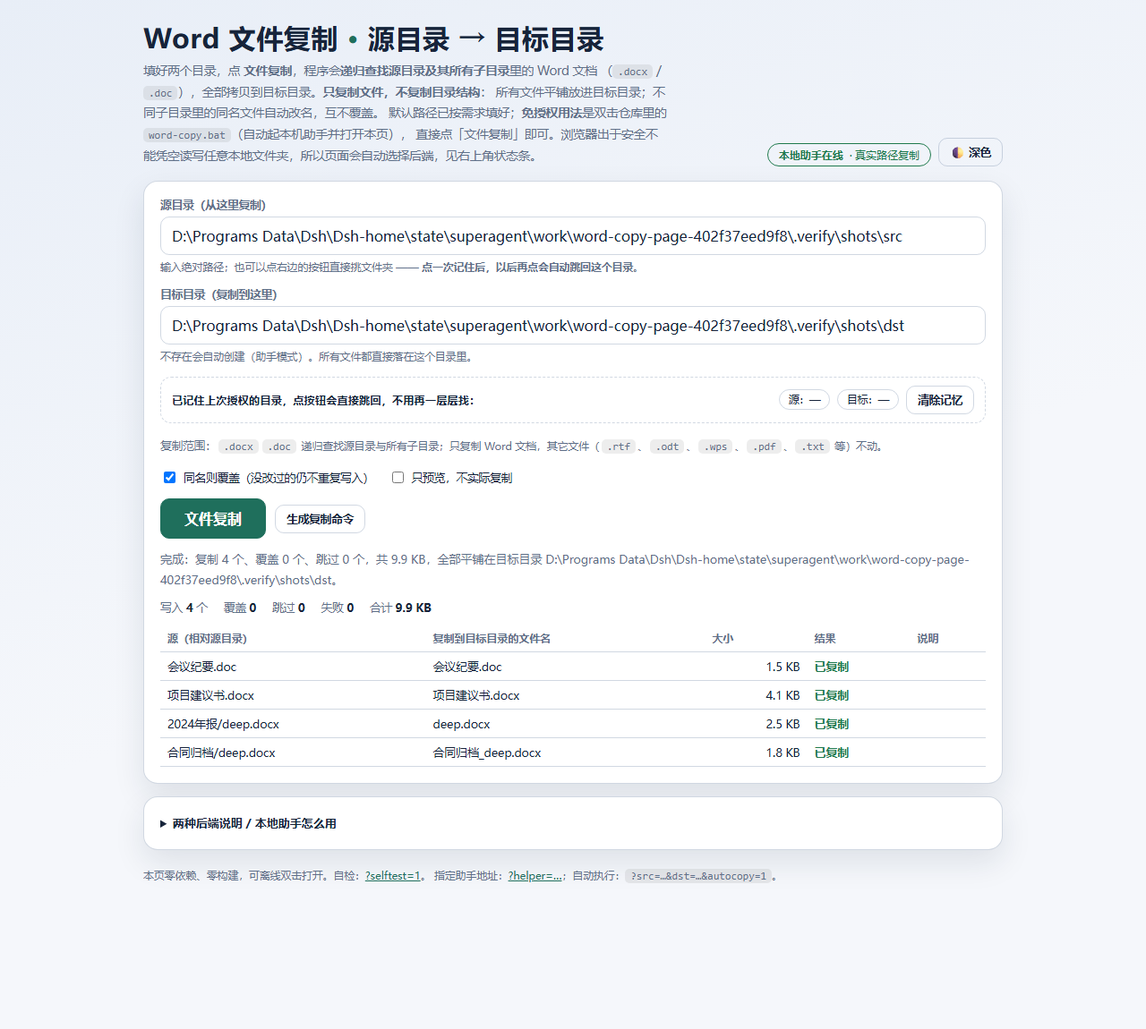
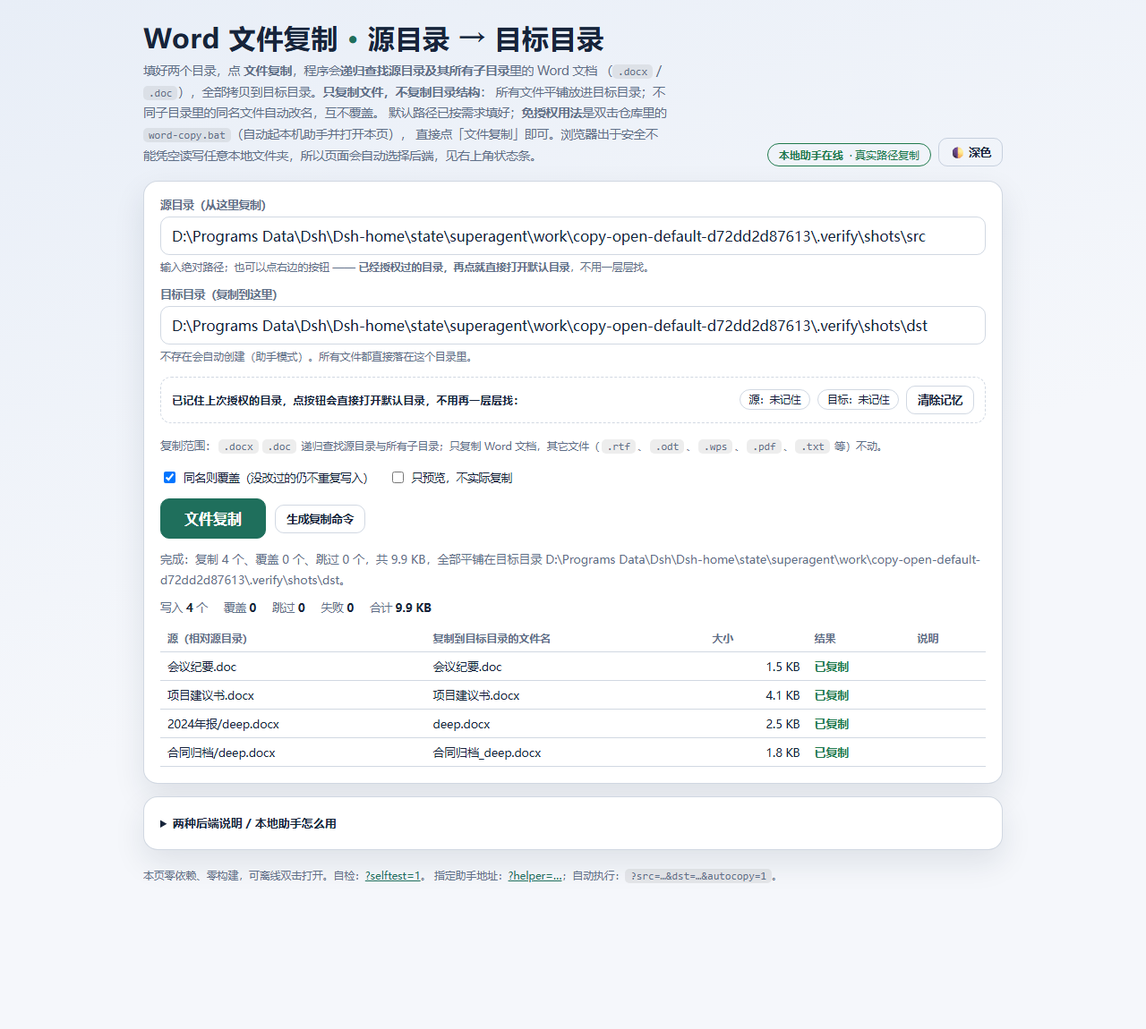
feat(word-copy): 点授权按钮直接打开默认目录
「点击授权目录，直接打开默认目录」—— 之前点「授权源目录 / 授权目标目录」：
已记住时把输入框写成「📁 已跳回：workspaces」，完整默认路径反而没了；
从没授权过时直接弹系统选择器，要一层层翻到默认目录。现在：

- 已记住且仍可用：直接打开默认目录（输入框保留完整路径，如
  D:\Programs Data\DeepTutor\data\user\workspaces → E:\word），不再弹选择器；
  记住的目录只是它的上层时按路径进到那一层，记的不是默认目录时按老规矩跳回它本身
- 输入框里已经是绝对路径就尊重它（?src= / ?dst= 覆盖的默认值同样生效）
- 从没授权过时不直接丢进系统选择框：先说明默认目录是哪两个 + 双击 word-copy.bat
  一步免授权，并把「仍然手动选择源/目标文件夹」留在提示里，点了才弹选择器
- 按住 Shift 或点记忆条 = 主动换目录，仍直接弹选择器并从上次那个目录开始
  （forcePick 用完即清，下一次普通点击回到「直接打开」）
- ?demoAuth=1 改为展示「已直接打开两个默认目录」，新增 ?demoNotice=1 展示未授权说明态

验证：页内自检 85/85（新增直达/回落/说明态/手选入口/主动换目录 8 项异步断言）；
tools\word-copy-check.ps1 56/56（新增两组展示态与文案断言）。
顺带修两处本机跑批问题：无头 Edge 子进程仍握着 dump-dom 临时文件时读到
「being used by another process」会中断检查（改为重试）；改前基线仍按
「main 上没有这个页面」抓 index.html，现在 main 已有 word-copy.html，
基线直接取 origin/main:word-copy.html，并补抓改前的 ?demoAuth=1 画面做同场景对比。

diff --git a/word-copy.html b/word-copy.html
@@ -117,9 +117,9 @@ a{color:var(--accent)}
       <div class="field">
         <label for="src">源目录（从这里复制）</label>
         <input type="text" id="src" value="D:\Programs Data\DeepTutor\data\user\workspaces" placeholder="D:\资料\合同" spellcheck="false" autocomplete="off">
-        <div class="hint">输入绝对路径；也可以点右边的按钮直接挑文件夹 —— <b>点一次记住后，以后再点会自动跳回这个目录</b>。</div>
+        <div class="hint">输入绝对路径；也可以点右边的按钮 —— <b>已经授权过的目录，再点就直接打开默认目录</b>，不用一层层找。</div>
       </div>
-      <button class="ghost" id="pickSrc" title="授权源目录（记住后下次自动跳回）">📁 授权源目录</button>
+      <button class="ghost" id="pickSrc" title="授权源目录：点一下直接打开默认目录">📁 授权源目录</button>
     </div>
     <div class="row" style="margin-top:12px">
       <div class="field">
@@ -127,10 +127,10 @@ a{color:var(--accent)}
         <input type="text" id="dst" value="E:\word" placeholder="E:\备份\合同" spellcheck="false" autocomplete="off">
         <div class="hint">不存在会自动创建（助手模式）。所有文件都直接落在这个目录里。</div>
       </div>
-      <button class="ghost" id="pickDst" title="授权目标目录（记住后下次自动跳回）">📁 授权目标目录</button>
+      <button class="ghost" id="pickDst" title="授权目标目录：点一下直接打开默认目录">📁 授权目标目录</button>
     </div>
     <div class="remembered" id="remembered" hidden>
-      <span class="rt">已记住上次授权的目录，点按钮会直接跳回，不用再一层层找：</span>
+      <span class="rt">已记住上次授权的目录，点按钮会直接打开默认目录，不用再一层层找：</span>
       <span class="rcol"><span class="chip" id="memSrc">源：—</span><span class="chip" id="memDst">目标：—</span>
       <button class="ghost" id="memClear">清除记忆</button></span>
     </div>
@@ -159,6 +159,9 @@ a{color:var(--accent)}
             <button class="ghost" id="hintCopy">复制</button></div></li>
         <li>助手起来后点 <button class="ghost" id="hintRetry">重新探测助手</button>，或直接刷新本页。</li>
       </ol>
+      <div class="actions" style="margin-top:10px">
+        <button class="ghost" id="hintManual" hidden>仍然手动选择文件夹</button>
+      </div>
       <div class="hint">助手只监听 127.0.0.1，只做「递归列出 Word 文件」和「平铺复制到目标目录」两件事，不删除任何东西，关掉窗口即停止。</div>
     </div>
 
@@ -186,8 +189,10 @@ a{color:var(--accent)}
     <p><b>文件没有修改就不重复写入</b>：目标里已有同名且内容没再改过的文件直接跳过，也不会碰它的写入时间。
       助手模式按「大小相同 + 修改时间相同」判定；浏览器授权模式写入后目标时间会变成「刚才」，
       所以改用「大小相同 + 目标不比源旧」。取消「同名则覆盖」后同名文件一律跳过。</p>
-    <p><b>点授权按钮会自动跳到对应目录</b>：第一次授权后目录会被记住（存在浏览器 IndexedDB），
-      以后再点同一个按钮直接跳回上次那个目录，不再弹选择器；输入框里填的是它下面的子目录时还会自动进到那一层。
+    <p><b>点授权按钮直接打开默认目录</b>：已经授权过的目录会被记住（存在浏览器 IndexedDB 里），
+      以后再点同一个按钮<b>直接打开默认目录</b>（就是输入框里那个路径，或它下面的子目录），不再弹选择器。
+      还没授权过时，浏览器不允许网页按路径直接打开本地文件夹 —— 页面会先把两个默认目录和「一步免授权」的做法摆出来
+      （双击 <code>word-copy.bat</code>），手动选择入口也留在提示里，不让你被直接丢进系统选择框。
       记住的目录被移动或权限被收回，会自动退回系统选择器重选一次。想主动换目录：按住 <kbd>Shift</kbd> 再点按钮，
       或点记忆条上的「清除记忆」。</p>
   </details>
@@ -354,6 +359,7 @@ var state = {
   srcHandle: null, dstHandle: null,
   remembered: { src: null, dst: null },   /* 上次授权过的目录句柄（存 IndexedDB） */
   forcePick: { src: false, dst: false },  /* 按住 Shift 点按钮 = 换别的目录 */
+  pendingPick: 'src',                     /* 提示里「仍然手动选择文件夹」针对哪个目录 */
   busy: false
 };
 
@@ -414,7 +420,7 @@ function helperPing(){
     .catch(function(){ return false; });
 }
 function detectBackend(tries){
-  if (Q.get('demoAuth') === '1') return;      /* 演示模式固定停在授权档，不做探测 */
+  if (Q.get('demoAuth') === '1' || Q.get('demoNotice') === '1') return;   /* 演示态：固定停在浏览器授权档，不做探测 */
   helperPing().then(function(on){
     if (!on && tries > 1) return setTimeout(function(){ detectBackend(tries - 1); }, 400);
     state.mode = on ? 'helper' : (window.showDirectoryPicker ? 'browser' : 'none');
@@ -523,24 +529,65 @@ function descendTo(rootHandle, wanted){
 function pickDir(which){
   if (!window.showDirectoryPicker){ setStatus('当前浏览器不支持目录授权（需要 Chrome / Edge 等）。', true); return; }
   var mode = which === 'dst' ? 'readwrite' : 'read';
+  var want = targetDirFor(which);
   var remembered = state.remembered[which];
   if (remembered && remembered.__demo) remembered = null;   /* 演示句柄不算真授权 */
-  /* 已经记住并仍被允许访问：直接跳回那个目录，不再弹选择器 */
-  if (remembered && !state.forcePick[which]){
+  var force = state.forcePick[which];
+  state.forcePick[which] = false;                            /* 用完即清，下一次普通点击仍是「直接打开」 */
+  /* 按住 Shift / 点记忆条 = 主动换目录：直接弹选择器，并从上次那个目录开始 */
+  if (remembered && force) return openPicker(which, mode, remembered);
+  /* 已经记住并仍被允许访问：直接打开默认目录，不再弹选择器 */
+  if (remembered){
     return askPermission(remembered, mode).then(function(p){
       if (p !== 'granted') throw new Error('permission-denied');
-      state[which + 'Handle'] = remembered;
-      return descendTo(remembered, $(which).value).then(function(h){
+      return descendTo(remembered, want).then(function(h){
         state[which + 'Handle'] = h;
-        $(which).value = '📁 已跳回：' + (h.name || '上次授权的文件夹') + (h === remembered ? '' : '（按输入路径进到子目录）');
-        setStatus('已自动跳回上次授权的' + (which === 'src' ? '源' : '目标') + '目录：' + (h.name || '') + '，现在可以点「文件复制」。想换别的目录，按住 Shift 再点这个按钮。');
+        if (handleReachesDefault(remembered, want)){
+          /* 记住的目录就是默认目录（或它的上层）：直接把默认目录打开、路径留在输入框里 */
+          $(which).value = want;
+          setStatus('已直接打开' + fieldLabel(which) + '目录：' + want + '（默认目录，已记住，不用再选），直接点「文件复制」即可。' +
+            '想换别的目录，按住 Shift 再点这个按钮。');
+        } else {
+          $(which).value = '📁 已跳回：' + (h.name || '上次授权的文件夹');
+          setStatus('已自动跳回上次授权的' + fieldLabel(which) + '目录：' + (h.name || '') +
+            '（记的不是默认目录，按输入路径进不去），现在可以点「文件复制」。想换别的目录，按住 Shift 再点这个按钮。');
+        }
       });
     }).catch(function(){
       setStatus('上次记的目录已经不可用（被移动或权限被收回），重新选一个。');
       return openPicker(which, mode, null);
     });
   }
-  return openPicker(which, mode, remembered);
+  /* 还没授权过：浏览器不能按路径直接打开本地文件夹（安全限制），
+     先把默认目录与「一步免授权」的做法说清楚，手动选择入口留在提示里。 */
+  showDefaultNotice(which, want);
+  return Promise.resolve();
+}
+/* 默认目录：?src= / ?dst= 覆盖，否则用页面内置的默认值 */
+function defaultDirFor(which){ return Q.get(which) || (which === 'src' ? DEFAULT_SRC : DEFAULT_DST); }
+/* 点按钮要打开的目录：输入框里已经是绝对路径就尊重它（只去掉「📁 …」那种占位文字），否则用默认目录 */
+function targetDirFor(which){
+  var v = String($(which).value || '').trim();
+  if (v && v.charAt(0) !== '📁' && isAbsolute(v)) return v;
+  return defaultDirFor(which);
+}
+function fieldLabel(which){ return which === 'src' ? '源' : '目标'; }
+/* 授权过的目录是不是默认目录本身、或者它的上层：名字能在默认路径里接上（与 descendTo 同一套接法） */
+function handleReachesDefault(handle, want){
+  var name = handle && handle.name;
+  if (!name) return false;
+  return normPath(want).split('/').some(function(seg){ return seg.toLowerCase() === String(name).toLowerCase(); });
+}
+/* 没授权过时点授权按钮：不直接弹系统选择框，先说明默认目录与免授权一步做法，手选入口放在提示里 */
+function showDefaultNotice(which, want){
+  state.pendingPick = which;
+  showHelperHint('浏览器不能直接按路径打开本地文件夹；先启动本机助手就能直接用默认目录：');
+  $('hintManual').hidden = false;
+  $('hintManual').textContent = '仍然手动选择' + fieldLabel(which) + '文件夹';
+  setStatus('默认' + fieldLabel(which) + '目录：' + want + '。浏览器不允许网页按路径打开文件夹；' +
+    '双击上面的 word-copy.bat（或先启动本机助手）后，再点这个按钮就会直接用默认目录 —— 不授权、不弹选择框。' +
+    '想现在就手选，点提示里的「仍然手动选择' + fieldLabel(which) + '文件夹」。');
+  try { $('helperHint').scrollIntoView({ block: 'nearest' }); } catch (e) {}
 }
 function openPicker(which, mode, startHandle){
   var opt = { id: 'wc-' + which, mode: mode };
@@ -548,8 +595,10 @@ function openPicker(which, mode, startHandle){
   return window.showDirectoryPicker(opt).then(function(h){
     state[which + 'Handle'] = h;
     return remember(which, h).then(function(){
+      $('hintManual').hidden = true;
       $(which).value = '📁 已授权：' + (h.name || '所选文件夹');
-      setStatus('已授权' + (which === 'src' ? '源' : '目标') + '目录：' + (h.name || '') + '，已记住，下次点这个按钮会自动跳回来。');
+      setStatus('已授权' + (which === 'src' ? '源' : '目标') + '目录：' + (h.name || '') +
+        '，已记住，下次点这个按钮会直接打开它（默认目录就是它时，输入框会保留完整路径）。');
     });
   }).catch(function(e){
     if (e && e.name !== 'AbortError') setStatus('授权失败：' + e.message, true);
@@ -722,6 +771,13 @@ $('memClear').addEventListener('click', function(){
 });
 $('memSrc').addEventListener('click', function(){ state.forcePick.src = true; pickDir('src'); });
 $('memDst').addEventListener('click', function(){ state.forcePick.dst = true; pickDir('dst'); });
+/* 没授权过时点授权按钮只给说明，手选入口在这里 */
+$('hintManual').addEventListener('click', function(){
+  var which = state.pendingPick || 'src';
+  var remembered = state.remembered[which];
+  if (remembered && remembered.__demo) remembered = null;
+  return openPicker(which, which === 'dst' ? 'readwrite' : 'read', remembered);
+});
 $('hintRetry').addEventListener('click', retryDetect);
 $('hintCopy').addEventListener('click', function(){
   var txt = 'powershell -ExecutionPolicy Bypass -File "' + batPath().replace(/word-copy\.bat$/, 'tools\\word-copy-server.ps1') + '"';
@@ -872,10 +928,19 @@ function selftest(){
     { overwrite: true, skipSame: true }).reason.indexOf('不重复写入') >= 0);
   T('记住目录控件齐备', ['remembered', 'memSrc', 'memDst', 'memClear'].every(function(id){ return !!$(id); }));
   T('覆盖选项写明不重复写入', document.querySelector('#overwrite').parentNode.textContent.indexOf('不重复写入') >= 0);
-  T('授权按钮提示写明自动跳回', $('pickSrc').title.indexOf('自动跳回') >= 0 && $('pickDst').title.indexOf('自动跳回') >= 0);
+  T('授权按钮提示写明直接打开默认目录', $('pickSrc').title.indexOf('直接打开默认目录') >= 0 && $('pickDst').title.indexOf('直接打开默认目录') >= 0);
+  T('默认目录取值正确', defaultDirFor('src') === DEFAULT_SRC && defaultDirFor('dst') === DEFAULT_DST);
+  var keepSrc = $('src').value, keepDst = $('dst').value;
+  $('src').value = DEFAULT_SRC; $('dst').value = '📁 已授权：word';
+  T('点按钮打开的目录：输入框已是绝对路径就尊重它', targetDirFor('src') === DEFAULT_SRC);
+  T('点按钮打开的目录：占位文字/相对路径时回落到默认目录', targetDirFor('dst') === DEFAULT_DST);
+  $('src').value = keepSrc; $('dst').value = keepDst;
+  T('默认目录判定：句柄名字能在路径里接上才算直达', handleReachesDefault({ name: 'workspaces' }, DEFAULT_SRC) === true &&
+    handleReachesDefault({ name: 'word' }, DEFAULT_DST) === true && handleReachesDefault({ name: '合同' }, DEFAULT_DST) === false);
+  T('手动选择按钮齐备且初始隐藏', !!$('hintManual') && $('hintManual').hidden === true);
   T('记忆区初始隐藏', $('remembered').hidden === true);
 
-  /* 异步断言：descendTo 与「点授权按钮自动跳到对应目录」（用假句柄，无头环境弹不出真选择器） */
+  /* 异步断言：descendTo 与「点授权按钮直接打开默认目录」（用假句柄，无头环境弹不出真选择器） */
   var out2 = [];
   function Ta(name, promise){
     return promise.then(function(v){ out2.push({ name: name, pass: !!v }); },
@@ -909,21 +974,61 @@ function selftest(){
   .then(function(){
     state.remembered.dst = granted; state.forcePick.dst = false; $('dst').value = DEFAULT_DST;
     pickedCalled = 0;
-    return Ta('已记住且仍可用时点按钮不再弹选择器', pickDir('dst').then(function(){ return pickedCalled === 0; }));
+    return Ta('记住的就是默认目录时点按钮不弹选择器', pickDir('dst').then(function(){ return pickedCalled === 0; }));
   })
   .then(function(){
-    return Ta('自动跳回上次目录并写进输入框', Promise.resolve().then(function(){
-      return $('dst').value.indexOf('已跳回') >= 0 && state.dstHandle === granted;
+    return Ta('直接打开默认目录：输入框保留默认路径', Promise.resolve().then(function(){
+      return $('dst').value === DEFAULT_DST && state.dstHandle === granted;
     }));
   })
   .then(function(){
-    return Ta('跳回后状态条提示可直接点复制', Promise.resolve().then(function(){
-      return $('status').textContent.indexOf('自动跳回') >= 0;
+    return Ta('直接打开默认目录：状态条写明已打开', Promise.resolve().then(function(){
+      return $('status').textContent.indexOf('已直接打开') >= 0 && $('status').textContent.indexOf(DEFAULT_DST) >= 0;
     }));
   })
   .then(function(){
     return Ta('记忆区在记住后显示', Promise.resolve().then(function(){
       renderRemembered(); return $('remembered').hidden === false;
+    }));
+  })
+  .then(function(){
+    var other = { name: '合同', kind: 'dir', queryPermission: function(){ return Promise.resolve('granted'); } };
+    state.remembered.dst = other; state.forcePick.dst = false; $('dst').value = DEFAULT_DST;
+    pickedCalled = 0;
+    return Ta('记住的目录不是默认目录时仍按老规矩跳回', pickDir('dst').then(function(){ return pickedCalled === 0; }));
+  })
+  .then(function(){
+    return Ta('跳回时写明跳回的是哪个目录', Promise.resolve().then(function(){
+      return $('dst').value.indexOf('已跳回') >= 0 && $('status').textContent.indexOf('自动跳回') >= 0 &&
+        $('status').textContent.indexOf('不是默认目录') >= 0;
+    }));
+  })
+  .then(function(){
+    state.remembered.dst = null; state.dstHandle = null; state.forcePick.src = false;
+    state.remembered.src = null; state.srcHandle = null; $('src').value = DEFAULT_SRC;
+    hideHelperHint(); $('hintManual').hidden = true; pickedCalled = 0;
+    return Ta('没授权过时点授权按钮不直接弹选择框', pickDir('src').then(function(){ return pickedCalled === 0; }));
+  })
+  .then(function(){
+    return Ta('没授权过时说明默认目录与免授权一步做法', Promise.resolve().then(function(){
+      var s = $('status').textContent;
+      return s.indexOf(DEFAULT_SRC) >= 0 && s.indexOf('word-copy.bat') >= 0 && state.pendingPick === 'src';
+    }));
+  })
+  .then(function(){
+    return Ta('说明里给出手动选择入口', Promise.resolve().then(function(){
+      return $('hintManual').hidden === false && $('hintManual').textContent.indexOf('源') >= 0;
+    }));
+  })
+  .then(function(){
+    return Ta('点手动选择入口才弹系统选择框', Promise.resolve().then(function(){
+      pickedCalled = 0; $('hintManual').click(); return pickedCalled === 1;
+    }));
+  })
+  .then(function(){
+    return Ta('主动换目录（Shift / 点记忆条）时直接弹选择器', Promise.resolve().then(function(){
+      state.remembered.dst = granted; state.dstHandle = null; state.forcePick.dst = true; pickedCalled = 0;
+      pickDir('dst'); return pickedCalled === 1 && state.forcePick.dst === false;
     }));
   })
   .then(function(){
@@ -936,6 +1041,7 @@ function selftest(){
   .then(function(){
     state.srcHandle = null; state.remembered.src = null; state.remembered.dst = null;
     window.showDirectoryPicker = hadPicker;
+    hideHelperHint(); $('hintManual').hidden = true;
     renderRemembered();
     return Promise.all(out2);
   })
@@ -994,9 +1100,14 @@ window.wordcopy = {
     var mk = function(n){ return { name: n, kind: 'dir', __demo: true, queryPermission: function(){ return Promise.resolve('granted'); } }; };
     state.remembered.src = mk('workspaces'); state.remembered.dst = mk('word');
     renderRemembered();
-    $('src').value = '📁 已跳回：workspaces';
-    $('dst').value = '📁 已跳回：word';
-    setStatus('已自动跳回上次授权的源目录与目标目录，直接点「文件复制」即可，不用再选文件夹。（演示状态 ?demoAuth=1，非真实授权）');
+    $('src').value = DEFAULT_SRC;
+    $('dst').value = DEFAULT_DST;
+    setStatus('已直接打开两个默认目录（' + DEFAULT_SRC + ' → ' + DEFAULT_DST + '），不用再选文件夹，直接点「文件复制」即可。（演示状态 ?demoAuth=1，非真实授权）');
+  }, 300);
+  /* ?demoNotice=1：展示「还没授权过、点授权按钮」时的说明态（不探测助手、不弹选择框、不写入） */
+  if (Q.get('demoNotice') === '1') setTimeout(function(){
+    state.mode = 'browser'; setBackend();
+    showDefaultNotice('src', defaultDirFor('src'));
   }, 300);
   if (Q.get('cmd') === '1') setTimeout(function(){ $('cmdBtn').click(); }, 300);
   if (Q.get('selftest') === '1') setTimeout(selftest, 150);

diff --git a/README.md b/README.md
@@ -27,10 +27,12 @@
   助手模式按「大小相同 + 修改时间相同」判定（`Copy-Item` 会保留源时间戳，所以能精确比对）；
   浏览器授权模式写入后目标时间会变成「刚才」，改用「大小相同 + 目标不比源旧」这种宽松判定，
   同样做到第二次点「文件复制」全是跳过、不重复写盘。取消「同名则覆盖」后同名文件一律跳过。
-- **点授权按钮自动跳到对应目录**：第一次授权后目录会被记住（存在浏览器 IndexedDB 里），
-  以后再点「授权源目录 / 授权目标目录」会直接跳回上次那个目录，不再弹选择器；
-  如果输入框里填的是它下面的子目录，还会自动进到那一层。记住的目录被移动或权限被收回时，
-  自动退回系统选择器重选一次。想主动换目录就按住 <kbd>Shift</kbd> 再点按钮，
+- **点授权按钮直接打开默认目录**：已经授权过的目录会被记住（存在浏览器 IndexedDB 里），
+  以后再点「授权源目录 / 授权目标目录」**直接打开默认目录** —— 输入框保留完整默认路径，不再弹选择器；
+  记住的目录只是默认目录的上层时，会自动进到那一层；记的不是默认目录（名字接不上）时按老规矩跳回它本身。
+  浏览器安全上不允许网页按路径凭空打开本地文件夹，所以**从没授权过**时点按钮不会把你直接丢进系统选择框，
+  而是先说明默认目录是哪两个、怎么用 `word-copy.bat` 一步免授权，并把「仍然手动选择文件夹」留在提示里。
+  记住的目录被移动或权限被收回时，自动退回系统选择器重选一次。想主动换目录就按住 <kbd>Shift</kbd> 再点按钮，
   或点记忆条上的「清除记忆」。
 - 目标目录不存在时自动创建（助手模式）。
 
@@ -60,39 +62,48 @@
 | `?preview=1` | 只预览不落盘 |
 | `?overwrite=0` | 取消「同名则覆盖」 |
 | `?cmd=1` | 打开时直接展开生成的复制命令 |
-| `?demoAuth=1` | 演示「已记住授权目录并自动跳回」的界面状态（纯展示，不探测助手、不产生任何写入、也不算真实授权） |
+| `?demoAuth=1` | 演示「已记住授权目录、点按钮直接打开默认目录」的界面状态（纯展示，不探测助手、不产生任何写入、也不算真实授权） |
+| `?demoNotice=1` | 演示「从没授权过时点授权按钮」的说明态：写明默认目录 + 免授权一步做法 + 手动选择入口（纯展示，不弹选择框、不写入） |
 | `?theme=dark` | 深色启动 |
-| `?selftest=1` | 页底列出 54 项自检结果 |
+| `?selftest=1` | 页底列出页内自检结果（当前 82 项） |
 
 页内暴露 `window.wordcopy`（`state` / `core` / `setPaths()` / `run()` / `ping()` / `selftest()`）供检查。
 
 ## 验证
 
-- `powershell -ExecutionPolicy Bypass -File tools\word-copy-check.ps1`：**52 项断言全部通过**
+- `powershell -ExecutionPolicy Bypass -File tools\word-copy-check.ps1`：**56 项断言全部通过**
   （递归只取 `.docx`/`.doc`、排除 `~$` 与隐藏文件、平铺且目标不产生子目录、同名不同目录自动改名不覆盖、
   重复拷贝跳过且**不触碰目标时间戳**、内容有差才覆盖、不勾选覆盖时一律跳过、预览不落盘不建目录、目标缺失时自动创建、
   四类入参校验报错，以及助手 HTTP 的 `/api/status` / `/api/copy` / 400 错误通道；
   外加 `word-copy.bat` 免授权启动器的静态校验（纯 ASCII、带 `-Port`、助手已在跑时不重复启动、先绑端口再开浏览器）；
   最后用无头 Edge 跑页内自检与「浏览器 → 助手 → 磁盘」全链路，确认状态报完成且磁盘上确有 4 个平铺文件，
   并单独验证**免授权主路径**：直接 `file://` 双击页面时助手在线、用两个默认目录给出计划、授权按钮隐藏、
-  不出现「请分别授权」，以及助手离线时页面给出免授权启动办法）。
-- `word-copy.html?selftest=1`：**73 项页内断言全部通过**（含内核 15 个函数齐备、递归清单与平铺改名规则、
+  不出现「请分别授权」，以及助手离线时页面给出免授权启动办法；
+  另加**直接打开默认目录**两组：`?demoAuth=1` 核对输入框保留完整默认路径、状态条写明已直接打开两个默认目录、
+  按钮提示与说明文案；`?demoNotice=1` 核对没授权过时的说明态给出默认目录、说明浏览器不能按路径直接打开、
+  指向 `word-copy.bat` 一步免授权，并显示手动选择入口）。
+- `word-copy.html?selftest=1`：**85 项页内断言全部通过**（含内核 15 个函数齐备、递归清单与平铺改名规则、
   默认目录值、预览用词与实复制用词区分、免授权提示控件与 `word-copy.bat` 路径推导、控件齐备与文案；
-  「不重复写入」的严格/宽松两种判定各 8 项；「点授权按钮自动跳回」用假目录句柄串起 6 项异步断言 ——
-  能按输入路径进到子目录、名字接不上时退回授权目录、已记住且可用时不再弹选择器、输入框与状态条都写明跳回、
-  记忆区显示、记住的目录不可用时回到重选）。
+  「不重复写入」的严格/宽松两种判定各 8 项；「点授权按钮直接打开默认目录」用假目录句柄串起 14 项异步断言 ——
+  能按输入路径进到子目录、名字接不上时退回授权目录、记住的就是默认目录时不弹选择器且输入框保留完整默认路径、
+  状态条写明已直接打开、记的不是默认目录时按老规矩跳回、没授权过时点按钮不直接弹选择框而是说明默认目录与
+  免授权做法、提示里的手动选择入口点了才弹选择框、按住 Shift 或点记忆条换目录时直接弹选择器、
+  记住的目录不可用时回到重选）。
 - 助手 `tools\word-copy-server.ps1` 与检查脚本都是纯 PowerShell，不需要 Node、不需要安装任何东西。
 
 ## 截图
 
-`docs/screenshots/` 下 `word-copy-before-main-index.png` 是改动前 `origin/main` 的实际内容
-（`main` 上没有这个页面，`git cat-file -e origin/main:word-copy.html` 报
-*exists on disk, but not in 'origin/main'*），`word-copy-after-*.png` 是本分支的运行画面：
+`docs/screenshots/` 下 `word-copy-before-*.png` 是改动前 `origin/main` 的实际内容（`main` 上已有
+word-copy.html，改前基线直接取 `origin/main:word-copy.html`），`word-copy-after-*.png` 是本分支的运行画面：
 默认目录与范围说明、深色配色、页内自检全绿、504×900 窄屏、助手在线的预览画面、真复制完成画面
 （4 个文件平铺进目标目录，其中两个同名 `deep.docx` 自动改名）、取消覆盖时的跳过画面、生成的复制命令，
 以及**免授权**两张：`word-copy-after-no-auth-defaults.png`（直接 `file://` 双击页面，助手在线、
 两个默认目录已填好、不要求授权）与 `word-copy-after-helper-offline-hint.png`（助手离线时页面给出的
 免授权启动办法：双击 `word-copy.bat` / 一条 PowerShell 命令 / 重新探测助手）。
+「点授权按钮直接打开默认目录」的改前 / 改后对比是同一场景、同一视口下的两张：
+`word-copy-before-default-open.png`（改前：输入框被写成「📁 已跳回：workspaces」，完整默认路径没了）
+与 `word-copy-after-remember-jump.png`（改后：输入框保留完整默认路径，状态条写明已直接打开两个默认目录）；
+`word-copy-after-default-notice.png` 是改后新增的「从没授权过时点授权按钮」说明态。
 预览/真复制两张取的是仓库内的临时目录（`.verify/shots/src → dst`），不读写真实的 `E:\word`。
 全部可用 `powershell -ExecutionPolicy Bypass -File tools\word-copy-shots.ps1` 复现。
 窄屏截图取 504px：本机无头 Edge 会把 CSS 视口下限钳制到约 504px，因此未标注为 390px。
